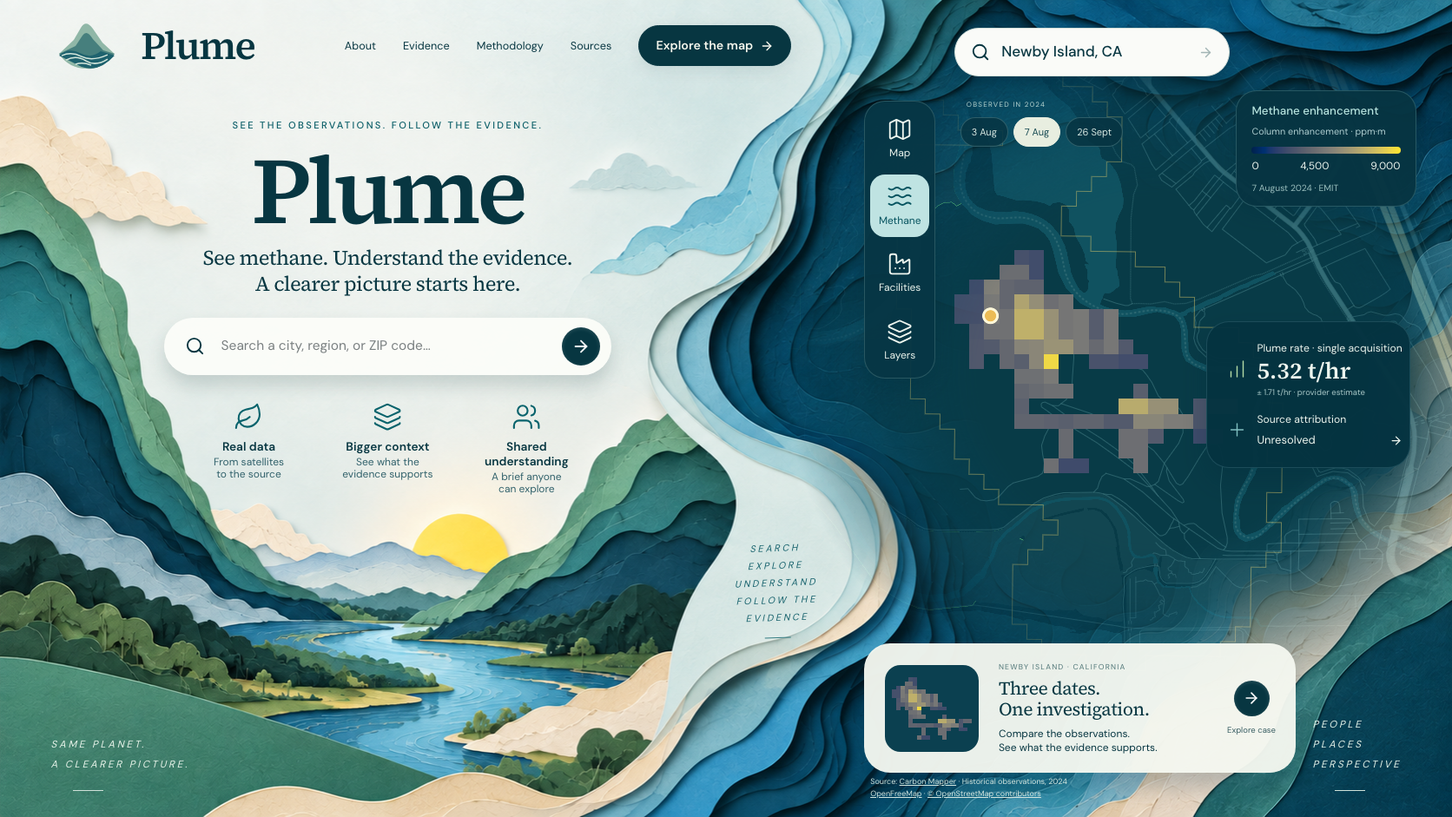
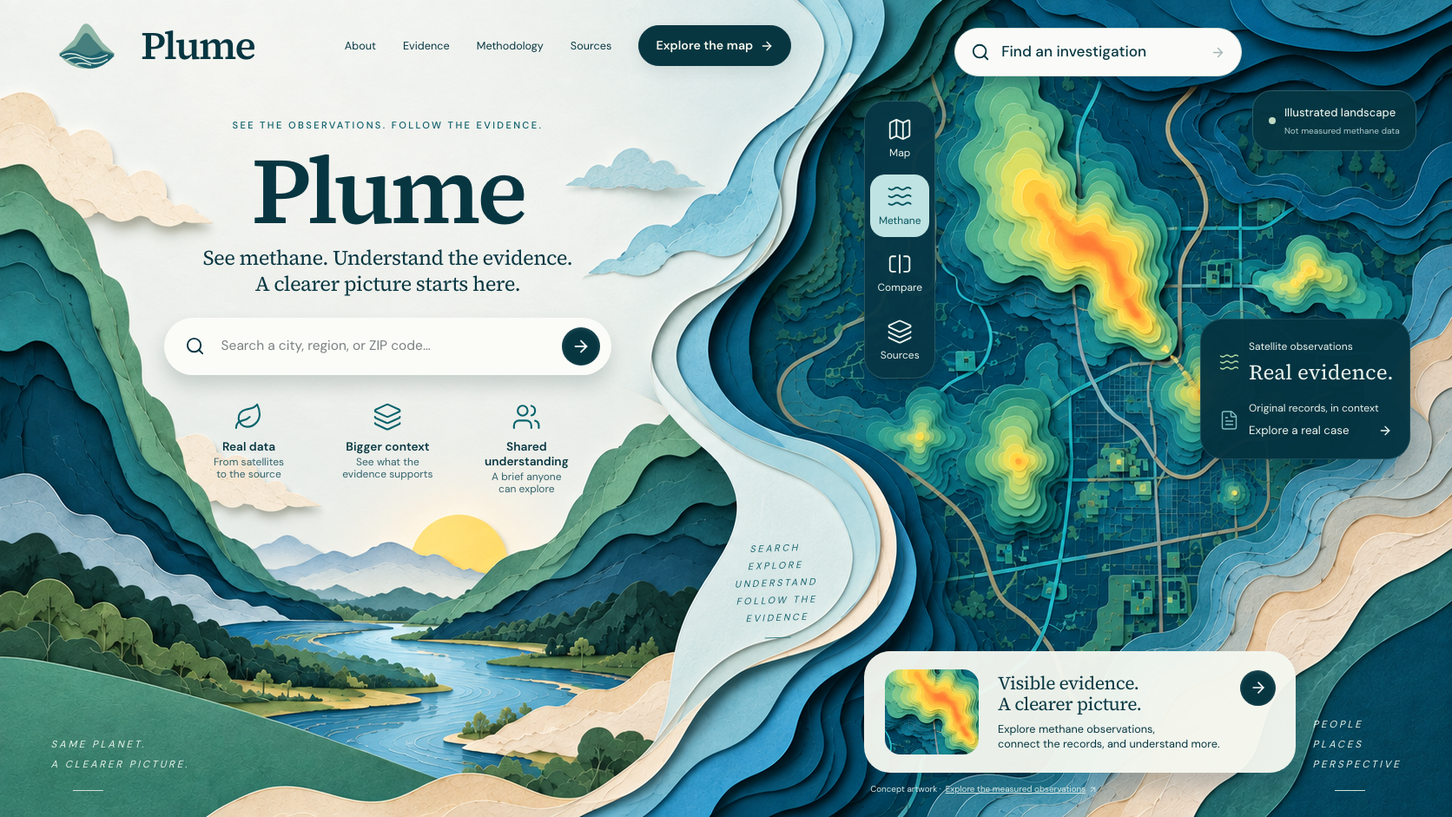
restore the illustrated homepage

diff --git a/components/plume/home.tsx b/components/plume/home.tsx
@@ -1,24 +1,16 @@
 'use client';
 import {useState} from 'react';
 import Link from 'next/link';
-import dynamic from 'next/dynamic';
-import {ArrowRight,Search,Leaf,Layers3,Users,Map as MapIcon,Waves,Factory,ChartNoAxesColumnIncreasing,Plus,X} from 'lucide-react';
+import {ArrowRight,Search,Leaf,Layers3,Users,Map as MapIcon,Waves,FileText,SplitSquareHorizontal,ArrowUpRight} from 'lucide-react';
 import {Brand} from './brand';
 import {useSnapshot} from './use-snapshot';
 import {PlaceSearch} from './place-search';
-import plumes from '@/public/data/home-plumes/manifest.json';
-import {dateLabel} from '@/lib/plume/evidence';
 import {Sheet,SheetContent,SheetHeader,SheetTitle,SheetDescription} from '@/components/ui/sheet';
-const HomeMap=dynamic(()=>import('./home-map'),{ssr:false});
 export default function Home(){
  const {snapshot,error}=useSnapshot();
- const [search,setSearch]=useState(false),[layers,setLayers]=useState(false),[methane,setMethane]=useState(true),[facilities,setFacilities]=useState(false),[enhancement,setEnhancement]=useState(true),[index,setIndex]=useState(1),[recenter,setRecenter]=useState(0);
- const caseData=snapshot?.cases.find(c=>c.id==='newby-island');
- const observations=snapshot?.observations.filter(o=>o.caseId==='newby-island')||[];
- const observation=observations[index];
- const plume=plumes[observation?.id as keyof typeof plumes];
- const investigation='/investigations/newby-island'+(observation?'?observation='+observation.id:'');
- return <main className="landing">
+ const [search,setSearch]=useState(false);
+ const investigation='/investigations/newby-island';
+ return <main className="landing illustrated-landing">
   <div className="landscape" aria-hidden="true"/>
   <header className="landing-header"><Brand/><nav aria-label="Main navigation"><Link href="/method#reading">About</Link><Link href="/explore">Evidence</Link><Link href="/method">Methodology</Link><Link href="/method#sources">Sources</Link><Link href="/explore" className="pill primary">Explore the map <ArrowRight size={16}/></Link></nav></header>
   <section className="hero-copy">
@@ -28,17 +20,14 @@ export default function Home(){
    <div className="hero-benefits"><div><Leaf/><strong>Real data</strong><span>From satellites<br/>to the source</span></div><div><Layers3/><strong>Bigger context</strong><span>See what the<br/>evidence supports</span></div><div><Users/><strong>Shared understanding</strong><span>A brief anyone<br/>can explore</span></div></div>
   </section>
   <p className="home-margin-note" aria-hidden="true">SEARCH<br/>EXPLORE<br/>UNDERSTAND<br/>FOLLOW THE EVIDENCE<span/></p>
-  <section className="home-map-area" aria-label="Explore a real methane observation">
-   <div className="home-map-surface">{caseData&&observation&&plume&&<HomeMap observation={observation} plumeAsset={plume} caseData={caseData} methane={methane} facilities={facilities} enhancement={enhancement} recenter={recenter}/>}</div>
-   <button className="home-place" disabled={!snapshot} onClick={()=>setSearch(true)}><Search size={22}/><span>Newby Island, CA</span><ArrowRight size={17}/></button>
-   <nav className="home-dates" aria-label="Preview observation date"><span>OBSERVED IN 2024</span><div>{observations.map((o,i)=><button key={o.id} aria-label={'Preview '+dateLabel(o.date)} aria-pressed={index===i} onClick={()=>{setIndex(i);setMethane(true);}}>{dateLabel(o.date,true).replace(' 2024','')}</button>)}</div></nav>
-   <div className="home-map-tools" aria-label="Map controls"><button onClick={()=>setRecenter(v=>v+1)} aria-label="Recenter preview map"><MapIcon/><span>Map</span></button><button aria-pressed={methane} onClick={()=>setMethane(v=>!v)}><Waves/><span>Methane</span></button><button aria-pressed={facilities} onClick={()=>setFacilities(v=>!v)}><Factory/><span>Facilities</span></button><button aria-expanded={layers} aria-controls="home-layers" onClick={()=>setLayers(v=>!v)}><Layers3/><span>Layers</span></button></div>
-   {layers&&<div id="home-layers" className="home-layer-panel"><strong>Dated observations</strong><button className="home-layer-close" aria-label="Close layers" onClick={()=>setLayers(false)}><X size={16}/></button>{observations.map((o,i)=><button key={o.id} aria-pressed={index===i} onClick={()=>setIndex(i)}>{dateLabel(o.date)}<span>EMIT</span></button>)}<label><input type="checkbox" checked={enhancement} onChange={e=>setEnhancement(e.target.checked)}/> Show enhancement imagery</label></div>}
-   <div className="home-legend">{!methane?<><strong>Methane layer hidden</strong><button className="home-show-methane" onClick={()=>setMethane(true)}>Show the observation <ArrowRight size={13}/></button></>:enhancement?<><strong>Methane enhancement</strong><span className="home-legend-unit">Column enhancement · ppm·m</span><div className="cividis"/><div className="home-scale"><span>0</span><span>4,500</span><span>9,000</span></div></>:<><strong>Observed methane</strong><span className="home-footprint-key"><i/> Published plume outline</span></>}<small>{observation?dateLabel(observation.date)+' · EMIT':'Loading observation…'}</small></div>
-   <Link className="home-rate-card" href={investigation}><ChartNoAxesColumnIncreasing/><div><span>Plume rate · single acquisition</span><strong>{observation?.rate!=null?(observation.rate/1000).toFixed(2)+' t/hr':'Rate unavailable'}</strong><small>{observation?.uncertainty!=null?'± '+(observation.uncertainty/1000).toFixed(2)+' t/hr · provider estimate':''}</small></div><Plus/><div><span>Source attribution</span><p>Unresolved <ArrowRight size={15}/></p></div></Link>
-   <Link className="home-story" href={investigation}><div className="home-story-thumbnail">{plume&&<img src={plume.url} alt="Actual provider-masked methane enhancement"/>}</div><div className="home-story-copy"><span className="home-story-kicker">NEWBY ISLAND · CALIFORNIA</span><h3>Three dates.<br/>One investigation.</h3><p>Compare the observations.<br/>See what the evidence supports.</p></div><span className="home-story-action"><span className="circle"><ArrowRight size={20}/></span><span>Explore case</span></span></Link>
-   <p className="home-source">Source: <a href="https://carbonmapper.org/terms">Carbon Mapper</a> · Historical observations, 2024<br/><a href="https://openfreemap.org/">OpenFreeMap</a> · <a href="https://www.openstreetmap.org/copyright">© OpenStreetMap contributors</a></p>
-   {error&&<p className="home-load-error" role="alert">The observation could not load. <Link href="/explore">Open investigations</Link></p>}
+  <section className="home-map-area" aria-label="Illustrated introduction to Plume">
+   <button className="home-place" disabled={!snapshot} onClick={()=>setSearch(true)}><Search size={22}/><span>Find an investigation</span><ArrowRight size={17}/></button>
+   <nav className="home-map-tools" aria-label="Explore Plume"><Link href={investigation}><MapIcon/><span>Map</span></Link><Link className="home-tool-featured" href="/method#reading"><Waves/><span>Methane</span></Link><Link href={investigation+'?view=compare'}><SplitSquareHorizontal/><span>Compare</span></Link><Link href="/method#sources"><Layers3/><span>Sources</span></Link></nav>
+   <div className="home-illustration-note"><span className="illustration-dot"/><div><strong>Illustrated landscape</strong><span>Not measured methane data</span></div></div>
+   <Link className="home-rate-card home-discovery-card" href={investigation}><Waves/><div><span>Satellite observations</span><strong>Real evidence.</strong></div><FileText/><div><span>Original records, in context</span><p>Explore a real case <ArrowRight size={16}/></p></div></Link>
+   <Link className="home-story" href={investigation}><div className="home-story-thumbnail home-art-thumbnail" aria-hidden="true"/><div className="home-story-copy"><h3>Visible evidence.<br/>A clearer picture.</h3><p>Explore methane observations,<br/>connect the records, and understand more.</p></div><span className="home-story-action"><span className="circle"><ArrowRight size={20}/></span></span></Link>
+   <p className="home-source">Concept artwork · <Link href={investigation}>Explore the measured observations <ArrowUpRight size={11}/></Link></p>
+   {error&&<p className="home-load-error" role="alert">Place search is unavailable. <Link href="/explore">Open investigations</Link></p>}
   </section>
   <footer className="landing-footer"><span>SAME PLANET.<br/>A CLEARER PICTURE.<i/></span><span>PEOPLE<br/>PLACES<br/>PERSPECTIVE<i/></span></footer>
   <Sheet open={search} onOpenChange={setSearch}><SheetContent className="plume-sheet"><SheetHeader><SheetTitle>Find a place</SheetTitle><SheetDescription>Search geography and discover the investigations included in this snapshot.</SheetDescription></SheetHeader><div className="sheet-body">{snapshot?<PlaceSearch snapshot={snapshot}/>:<p>{error||'Loading the included investigations…'}</p>}</div></SheetContent></Sheet>

diff --git a/app/globals.css b/app/globals.css
@@ -334,3 +334,31 @@ body {
 @media(min-width:1200px){.investigation-workspace>.case-rail{bottom:50px}.investigation-workspace .timeline{bottom:62px}.investigation-workspace .finding p{font-size:13px}.investigation-workspace .observation-facts strong{font-size:20px}.investigation-workspace .observation-facts .fact-status{font-size:11px}.investigation-workspace .workspace-layers label{font-size:12px}.investigation-workspace .evidence-actions>button>span{font-size:11px}}
 
 @media(min-width:1200px){.investigation-workspace>.case-rail{padding-bottom:12px}.investigation-workspace.view-compare .map-stage{bottom:280px}.investigation-workspace .compare-selectors{bottom:216px}}
+
+/* The landing page is an illustrated invitation; measured maps live in investigations. */
+.illustrated-landing .landscape{background-image:url('/art/home-illustrated.png')}
+.illustrated-landing .home-map-tools a{border:0;background:none;color:inherit;border-radius:17px;padding:.65vw 0;display:flex;flex-direction:column;align-items:center;gap:3px;font-size:.72vw;text-decoration:none}
+.illustrated-landing .home-map-tools a:hover{background:#245c66}
+.illustrated-landing .home-map-tools .home-tool-featured{background:#bfe3e2;color:#075460}
+.illustrated-landing .home-place{width:48%}
+.home-illustration-note{position:absolute;right:6%;top:11%;display:flex;align-items:center;gap:10px;padding:15px 18px;border:1px solid #52838c80;border-radius:22px;background:#053541ef;color:#e4eee7;box-shadow:0 8px 24px #012e4130}
+.home-illustration-note strong{display:block;font-size:13px;font-weight:500}
+.home-illustration-note div>span{display:block;font-size:10px;color:#b2cfd0;margin-top:4px}
+.illustration-dot{width:8px;height:8px;background:#bedac3;border-radius:50%;flex:none}
+.illustrated-landing .home-discovery-card{width:35%;right:7%;top:39%;padding:1.3vw 1.2vw;gap:17px 12px}
+.home-discovery-card strong{font-size:1.45vw;font-weight:500;white-space:nowrap;margin-top:5px}
+.home-discovery-card span{font-size:.72vw}
+.home-discovery-card p{font-size:.8vw;margin-top:7px}
+.illustrated-landing .home-story{bottom:5.4%;padding:1.25vw 1.4vw;min-height:8.3vw;gap:1.3vw}
+.illustrated-landing .home-story h3{font-size:1.27vw;line-height:1.14}
+.illustrated-landing .home-story p{font-size:.76vw;line-height:1.35;margin-top:8px}
+.illustrated-landing .home-art-thumbnail{background:#0b4050 url('/art/home-illustrated.png') 77% 29% / auto 500%;width:6.5vw;height:5.9vw;border-radius:18px}
+.illustrated-landing .home-story-action{align-self:flex-start;margin-top:1px}
+.illustrated-landing .home-source{bottom:2.6%;font-size:.59vw;color:#daebe6;display:flex;gap:5px;align-items:center}
+.illustrated-landing .home-source a{display:inline-flex;align-items:center;gap:3px}
+@media(max-width:1100px) and (min-width:761px){.illustrated-landing .home-map-tools a{font-size:10px;padding:10px 0}.home-illustration-note{right:4%;padding:12px;gap:8px}.home-illustration-note strong{font-size:11px}.home-illustration-note div>span{font-size:8px}.illustrated-landing .home-discovery-card{width:51%;padding:17px 13px;gap:12px 8px}.home-discovery-card strong{font-size:18px}.home-discovery-card span{font-size:10px}.home-discovery-card p{font-size:11px}.illustrated-landing .home-story{width:86%;padding:16px;gap:13px}.illustrated-landing .home-story h3{font-size:19px}.illustrated-landing .home-story p{font-size:10px}.illustrated-landing .home-art-thumbnail{width:70px;height:87px}.illustrated-landing .home-source{font-size:8px;flex-wrap:wrap}.illustrated-landing .home-place{width:69%}}
+@media(max-width:760px){.illustrated-landing .home-map-area{height:670px;background:url('/art/home-illustrated.png') 99% 50% / auto 110% no-repeat;mask-image:linear-gradient(transparent,#000 6%,#000 96%,transparent)}.illustrated-landing .home-map-tools a{font-size:10px;padding:11px 0}.illustrated-landing .home-place{width:71%;font-size:14px}.home-illustration-note{top:15%;right:6%;padding:12px 14px;gap:8px}.home-illustration-note strong{font-size:12px}.home-illustration-note div>span{font-size:9px}.illustrated-landing .home-discovery-card{top:44%;right:6%;width:58%;padding:18px 15px;gap:14px 10px}.home-discovery-card strong{font-size:20px}.home-discovery-card span{font-size:10px}.home-discovery-card p{font-size:12px}.illustrated-landing .home-story{bottom:9%;width:90%;padding:16px;gap:12px;min-height:120px}.illustrated-landing .home-story h3{font-size:21px}.illustrated-landing .home-story p{font-size:10px}.illustrated-landing .home-art-thumbnail{width:64px;height:87px;border-radius:13px}.illustrated-landing .home-source{bottom:4.8%;font-size:8px;flex-wrap:wrap}.illustrated-landing .home-story-action{margin-top:0}}
+
+.illustrated-landing .home-discovery-card{grid-template-columns:23px minmax(0,1fr)}
+.illustrated-landing .home-discovery-card span{white-space:normal}
+.illustrated-landing .home-story-action>.circle{color:#fff}

diff --git a/tests/homepage.spec.ts b/tests/homepage.spec.ts
@@ -1,16 +1,11 @@
 import {test,expect} from '@playwright/test';
 
-test('homepage controls select real dated evidence and preserve honest search coverage',async({page})=>{
- const errors:string[]=[];page.on('pageerror',e=>errors.push(e.message));page.on('console',m=>{if(m.type()==='error')errors.push(m.text());});
- await page.goto('/');await expect(page.getByRole('button',{name:'Methane',exact:true})).toHaveAttribute('aria-pressed','true');await expect(page.locator('.home-rate-card strong')).toHaveText('5.32 t/hr');
- await page.getByRole('button',{name:'Layers',exact:true}).click();
- await page.getByRole('button',{name:'3 August 2024 EMIT'}).click();
- await expect(page.locator('.home-rate-card strong')).toHaveText('1.63 t/hr');
- await expect(page.locator('.home-rate-card')).toHaveAttribute('href',/emi20240803t190415p13004-C/);
- await page.getByLabel('Show enhancement imagery').check();await expect(page.locator('.home-legend')).toContainText('Column enhancement');
- await page.getByRole('button',{name:'Close layers'}).click();await page.getByRole('button',{name:'Methane',exact:true}).click();await expect(page.getByRole('button',{name:'Methane',exact:true})).toHaveAttribute('aria-pressed','false');
- await expect(page.getByText('Methane layer hidden',{exact:true})).toBeVisible();await page.getByRole('button',{name:'Preview 26 September 2024',exact:true}).click();await expect(page.locator('.home-rate-card strong')).toHaveText('2.13 t/hr');await expect(page.getByRole('button',{name:'Methane',exact:true})).toHaveAttribute('aria-pressed','true');
- await page.locator('.home-search').click();await page.getByRole('textbox',{name:'City, region, or US ZIP code'}).fill('Denver');await page.getByRole('button',{name:/Denver.*United States/}).click();await expect(page).toHaveURL(/\/places\//);await expect(page.getByRole('heading',{name:'No included observations nearby'})).toBeVisible();await expect(page.locator('.place-map-canvas canvas')).toBeVisible();expect(errors).toEqual([]);
+test('illustrated homepage opens real investigations and preserves honest search coverage',async({page})=>{
+ const errors:string[]=[];page.on('pageerror',e=>errors.push(e.message));
+ await page.goto('/');await expect(page.getByText('Not measured methane data',{exact:true})).toBeVisible();await expect(page.locator('canvas')).toHaveCount(0);await expect(page.locator('.home-map-area')).not.toContainText('t/hr');
+ await page.getByRole('navigation',{name:'Explore Plume'}).getByRole('link',{name:'Map',exact:true}).click();await expect(page).toHaveURL(/\/investigations\/newby-island/);await expect(page.locator('.selection-scope')).toContainText('3 selected observations');
+ await page.goto('/');await page.getByRole('navigation',{name:'Explore Plume'}).getByRole('link',{name:'Compare',exact:true}).click();await expect(page).toHaveURL(/view=compare/);await expect(page.locator('.compare-stage .map-pane')).toHaveCount(2);
+ await page.goto('/');await page.locator('.home-search').click();await page.getByRole('textbox',{name:'City, region, or US ZIP code'}).fill('Denver');await page.getByRole('button',{name:/Denver.*United States/}).click();await expect(page).toHaveURL(/\/places\//);await expect(page.getByRole('heading',{name:'No included observations nearby'})).toBeVisible();await expect(page.locator('.place-map-canvas canvas')).toBeVisible();expect(errors).toEqual([]);
 });
 
 test('homepage fits desktop and mobile widths',async({page})=>{

diff --git a/docs/ASSET_PROVENANCE.md b/docs/ASSET_PROVENANCE.md
@@ -1,13 +1,17 @@
 # Decorative artwork
 
-Three assets were generated with the built-in OpenAI image-generation tool from the user's supplied references. They are decorative illustration only. Actual map and report imagery comes from the numeric Carbon Mapper rasters.
+Four assets were generated with the built-in OpenAI image-generation tool from the user's supplied references. They are decorative illustration only. Actual map and report imagery comes from the numeric Carbon Mapper rasters.
 
 - `public/art/paper-landscape.png`: recreate the reference's cream left field, layered teal paper ribbon, river valley, mountains and warm sun. Remove all interface, text, scientific map imagery and methane graphics. Retained for the app header background.
-- `public/art/home-landscape.png`: a new edit of the supplied homepage reference, preserving its exact valley, sun, paper boundary and composition while removing all UI, map streets and fictional methane blobs. Used only as homepage decoration; the interactive map uses real geographic tiles and published plume outlines.
+- `public/art/home-landscape.png`: a new edit of the supplied homepage reference, preserving its exact valley, sun, paper boundary and composition while removing all UI, map streets and fictional methane blobs. Retained as an earlier homepage decoration; superseded by `home-illustrated.png`.
 - `public/art/workspace-frame.png`: recreate the second reference's paper-cut perimeter, cream header, thin mountain horizon, sun at upper right, teal side contours, and cream/blue lower edge with wooded corners. Keep the center blank pale blue-green; no map, road, heatmap, UI, label, logo, or data. Used only behind HTML panels and the separate scientific map.
 
 Live typography, cards, controls, navigation, legends, source references, and scientific layers are implemented in code. The generated image is not used as a flattened substitute for the interface.
 
 ## Scientific map previews
 
-`public/data/home-plumes/` contains numeric renderings of the provider's `l3a-ime-ch4-mfa-v3 / ime-cmf-concentrations.tif` products for the five Newby Island and Marib observations. These are not generated illustrations. `scripts/prepare_home_plumes.py` preserves the provider's zero nodata mask, trims only that mask's outer margin, reprojects with nearest-neighbor sampling, and uses the existing cividis legend at the snapshot’s fixed case scales (0–9,000 ppm·m for Newby Island; 0–5,500 ppm·m for Marib). No threshold, smoothing, interpolation of concentrations, or synthetic hotspots are added. Every display pixel is checked against a native provider sample. The manifest records geographic bounds, source URLs, input and output checksums, and native sample counts. Run the script with `--check` to reproduce and verify the previews; CI includes this check. The homepage and investigation maps use these provider-masked images by default. The “Full acquisition scene” layer restores the full scene raster. Full scene imagery remains in the evidence exports.
+`public/data/home-plumes/` contains numeric renderings of the provider's `l3a-ime-ch4-mfa-v3 / ime-cmf-concentrations.tif` products for the five Newby Island and Marib observations. These are not generated illustrations. `scripts/prepare_home_plumes.py` preserves the provider's zero nodata mask, trims only that mask's outer margin, reprojects with nearest-neighbor sampling, and uses the existing cividis legend at the snapshot’s fixed case scales (0–9,000 ppm·m for Newby Island; 0–5,500 ppm·m for Marib). No threshold, smoothing, interpolation of concentrations, or synthetic hotspots are added. Every display pixel is checked against a native provider sample. The manifest records geographic bounds, source URLs, input and output checksums, and native sample counts. Run the script with `--check` to reproduce and verify the previews; CI includes this check. The investigation maps use these provider-masked images by default. The “Full acquisition scene” layer restores the full scene raster. Full scene imagery remains in the evidence exports.
+
+## Illustrated landing page
+
+`public/art/home-illustrated.png` was generated with the built-in image-generation tool from the user's original homepage reference. It recreates the cream river valley, layered teal paper boundary, stylized cartographic texture, and sculpted warm contour shapes. These shapes are concept artwork, not plume measurements or real geography. The homepage explicitly labels the illustration, displays no numerical legend or measured rate against it, and links into separate real investigation maps. The small homepage card uses a decorative crop of the same artwork. Text, cards, navigation and search are HTML; the generated asset contains no interface. It is never included in evidence manifests, observation thumbnails, or exports. Exact generation prompt: [home illustration prompt](design/home-illustration-prompt.md).

diff --git a/docs/design/home-illustration-prompt.md b/docs/design/home-illustration-prompt.md
@@ -1,0 +1,7 @@
+# Homepage illustration
+
+Generated using the built-in image generation tool. Reference: the user's original Plume landing-page image. Production asset: `public/art/home-illustrated.png`.
+
+## Exact prompt
+
+Use case: illustration-story. Asset type: production website decorative hero background, landscape 16:9, high resolution. Reference image: the attached Plume homepage is the exact art-direction and composition target. Create ONLY the background artwork, absolutely no text, no typography, no logo, no buttons, no cards, no icons, no legends, no UI. Recreate its exquisite tactile layered paper-cut aesthetic and composition very closely: left 57 percent pale warm cream open negative space from top to about 60 percent height for HTML headline and controls, scenic emerald/sage paper mountains on far left edge and bottom, beautiful winding pale blue river through forest in bottom left quarter, small warm yellow sun low on horizon around x32% y67%. An elegant S-shaped vertical boundary of curled cream, ice-blue and deep teal paper layers separates left and right near x56%, with depth and fine natural paper fibers. RIGHT 43 percent: recreate the reference's striking dark petrol-teal miniature cartographic paper-cut illustration, with subtle intricate stylized roads and miniature geometric blocks. Add three beautifully sculpted irregular nested contour islands of sage, turquoise, pale yellow and warm golden amber, like the reference's luminous flowing plumes, one prominent elongated diagonal form near x72% y30%, a smaller one near x88% y38%, one at x73% y62%. These are decorative conceptual contours, NOT scientific data or a real place; no labels, numbers, source symbols, axes, coordinates. Beautiful smoothly curved CUT PAPER shapes with crisp physical edges and believable layered shadows, NOT blurry glowing blobs, NOT pixel grids, NOT a raster plot. Keep right top and right middle-right fairly uncluttered for real HTML controls. Dark teal contours at far right and layered cream curl on lower right. Match reference's sophisticated light, natural matte paper material, fine fibers, rich relief, deep shadows and high craft quality. No realistic satellite imagery, no visible square pixels, no rectangular plot boundaries, no fabricated scientific readout. No text anywhere. Preserve the reference's balance of serene cream left and dramatic sculptural dark teal right.

diff --git a/docs/PLUME_PRD.md b/docs/PLUME_PRD.md
@@ -356,7 +356,7 @@ The supplied images govern **art direction**, not scientific content or nonexist
 
 The implementation target is a high-fidelity responsive interpretation. A literal pixel-identical functional copy cannot be promised from two flattened images without editable artwork, exact fonts, and responsive/state specifications. Generated artwork can preserve style and composition while varying individual contours. The real map necessarily differs from the illustrated Denver heatmap.
 
-Image generation is for a small cohesive set of **decorative assets**: hero landscape, layered contour edge, subtle paper texture, and a coordinated compact/mobile crop. Use supplied images as style/composition references. Request assets without words, controls, plotted measurements, map labels, roads, or fake scientific plumes. Prefer one coherent source composition and derived crops over many unrelated generations. Preserve transparent edges where required.
+Image generation is for a small cohesive set of **decorative assets**: hero landscape, layered contour edge, subtle paper texture, and a coordinated compact/mobile crop. Use supplied images as style/composition references. Request assets without words, controls, plotted measurements, or map labels. The landing page may use reference-matched conceptual roads and sculpted plume-like contours as clearly labeled illustration. Do not attach real location labels, acquisition dates, numeric scales, or measured rates to that artwork; link to the separate measured investigation view. This landing-page exception follows the user’s explicit request to restore the illustrated reference using image generation. Prefer one coherent source composition and derived crops over many unrelated generations. Preserve transparent edges where required.
 
 Implement all headings, labels, buttons, icons, cards, maps, timelines, and interactions in HTML/CSS/SVG/MapLibre. Do not place invisible buttons over a flattened full-screen screenshot. Generated text is not production interface text. The supplied reference PNGs are kept outside `public/` and are not shipped as the application.
 
